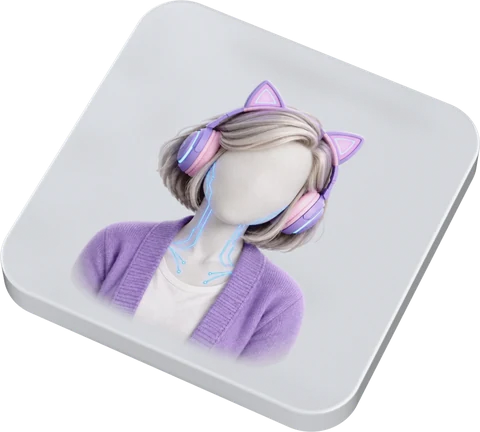
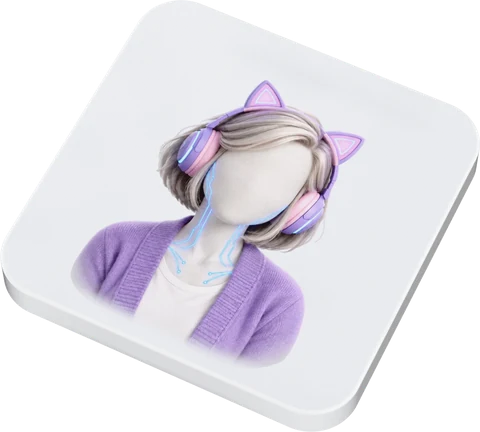
Floating tiles re-rendered over near-white so the glass sits light on the page; cache-busting version on their URLs

Changed region(s): [[0.0, 0.6319, 0.75, 1.0], [0.6875, 0.1204, 0.7188, 0.1505]]

diff --git a/tools/tiles/tile-boot.js b/tools/tiles/tile-boot.js
@@ -4,7 +4,9 @@
 // background), elev (camera height in degrees), mask (the tile's outline only, white on black: the
 // cut-out mask for the grey-backed render, so the glass keeps the floor's look once cut out), straight
 // (square on to the camera, the bust upright along the tile's axis, a gentler angle; default true),
-// az (with straight: the camera's turn around the tile in degrees, so each tile can sit at its own angle).
+// az (with straight: the camera's turn around the tile in degrees, so each tile can sit at its own angle),
+// bg (the colour behind the glass, which shows through it: lighter for tiles floating on the white page),
+// exposure (overrides the floor's).
 import * as THREE from 'three';
 import { studioEnvironment, glassMaterials } from '/src/tiles/materials.js';
 import { buildComposer } from '/src/tiles/post.js';
@@ -12,19 +14,19 @@ import { addCharacters, loadPictures } from '/src/tiles/characters.js';
 import { tileGeometry } from '/src/tiles/geometry.js';
 
 const RAW = await fetch('/tiles/floor-params.json').then((r) => r.json());
-const opt = Object.assign({ name: '03-braids.webp', ai: false, transparent: true, elev: null, mask: false, straight: true, az: 0 }, window.PARAMS);
+const opt = Object.assign({ name: '03-braids.webp', ai: false, transparent: true, elev: null, mask: false, straight: true, az: 0, bg: null, exposure: null }, window.PARAMS);
 const P = Object.assign({ W: 1920, H: 1080, assetBase: '/tiles' }, RAW, RAW.states?.default ?? {}, { chars: [opt.name], charActive: null }, opt.transparent ? { filmGrain: 0 } : {});
 
 const renderer = new THREE.WebGLRenderer({ antialias: true, preserveDrawingBuffer: true, alpha: opt.transparent });
 renderer.toneMapping = THREE.NeutralToneMapping;
-renderer.toneMappingExposure = P.exposure;
+renderer.toneMappingExposure = opt.exposure ?? P.exposure;
 const w = innerWidth, h = innerHeight;
 renderer.setPixelRatio(devicePixelRatio);
 renderer.setSize(w, h);
 document.body.appendChild(renderer.domElement);
 
 const scene = new THREE.Scene();
-scene.background = opt.transparent ? null : new THREE.Color(P.fogColor);
+scene.background = opt.transparent ? null : new THREE.Color(opt.bg ?? P.fogColor);
 scene.environment = studioEnvironment(renderer, P);
 scene.environmentIntensity = P.envI;
 scene.add(new THREE.HemisphereLight('#ffffff', P.hemiGround, P.hemi));

diff --git a/src/components/website/FloatingBadges.tsx b/src/components/website/FloatingBadges.tsx
@@ -85,6 +85,8 @@ const BADGES: Badge[] = [
 
 const DRIFT = 22; // px a depth-1 badge moves with the cursor at the edge of the screen
 const SWEEP_S = 1;
+// bump when the tile renders change, so browsers fetch the new ones instead of their cached copies
+const TILES_V = 2;
 const BAND = 34; // band width, % of the tile
 
 export function FloatingBadges() {
@@ -164,18 +166,18 @@ function FloatingBadge({
           className="pointer-events-auto relative drop-shadow-[0_8px_10px_rgba(10,27,51,0.10)]"
           style={{ width: b.size, rotate: b.tilt }}
         >
-          <Tile src={`/tiles/float/${b.name}.webp`} />
+          <Tile src={`/tiles/float/${b.name}.webp?v=${TILES_V}`} />
           <motion.div
             className="absolute inset-0"
             style={{ clipPath: reveal, opacity: ai }}
           >
-            <Tile src={`/tiles/float/${b.name}-ai.webp`} />
+            <Tile src={`/tiles/float/${b.name}-ai.webp?v=${TILES_V}`} />
           </motion.div>
           {/* the dot-matrix wave: a dense halftone of accent dots, soft at both edges, kept to the tile */}
           <div
             className="absolute inset-0"
             style={{
-              maskImage: `url(/tiles/float/${b.name}.webp)`,
+              maskImage: `url(/tiles/float/${b.name}.webp?v=${TILES_V})`,
               maskSize: "100% 100%",
             }}
           >
